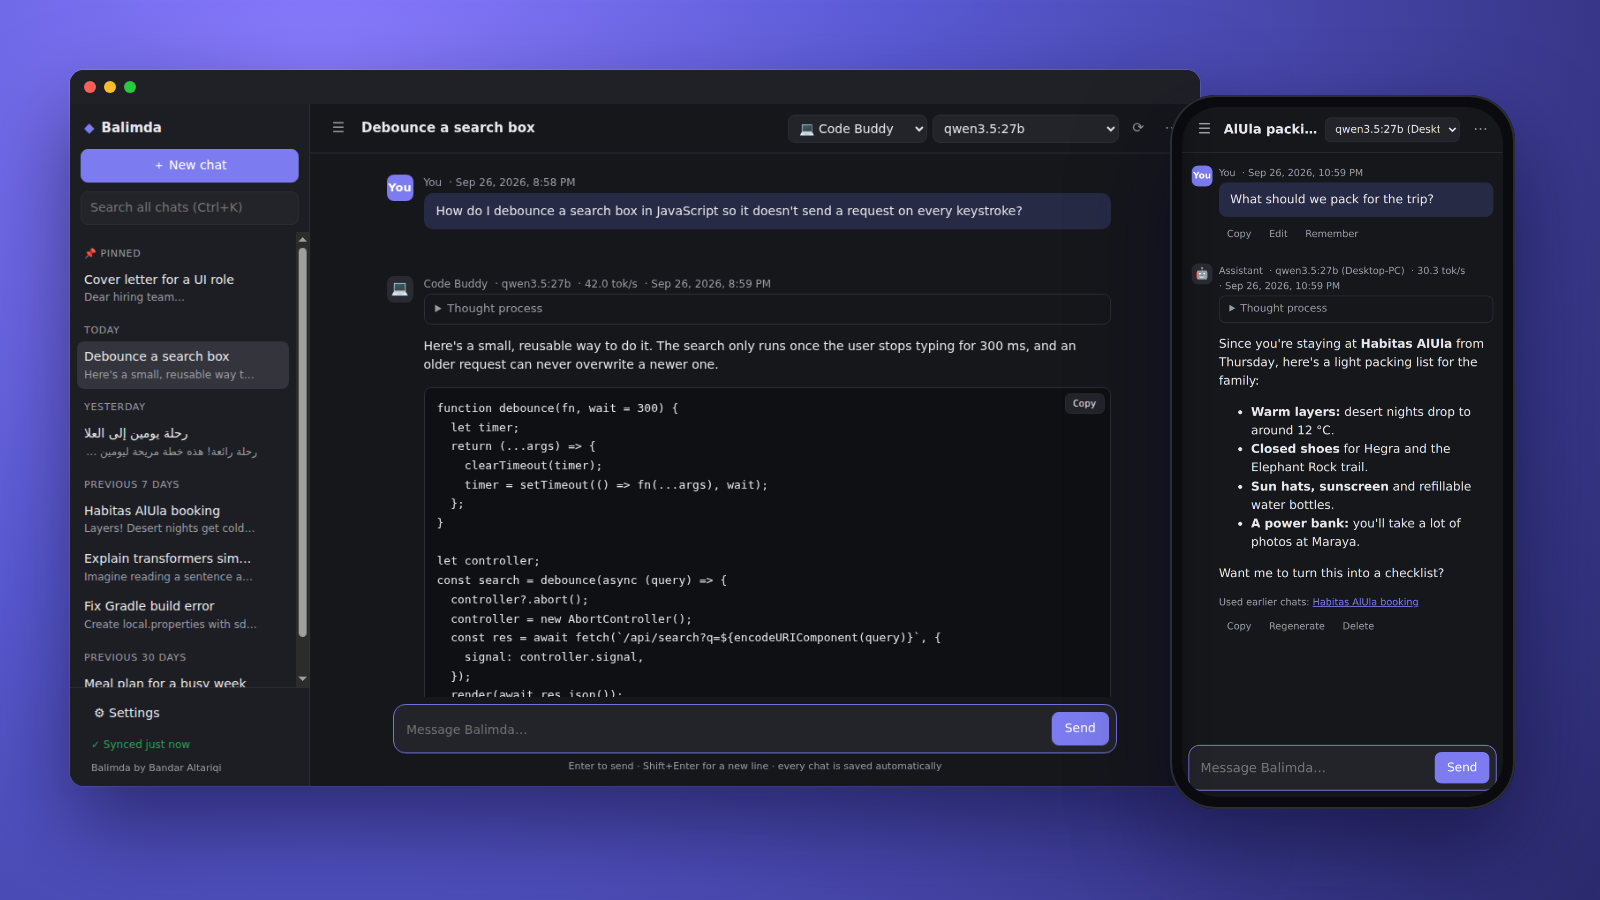
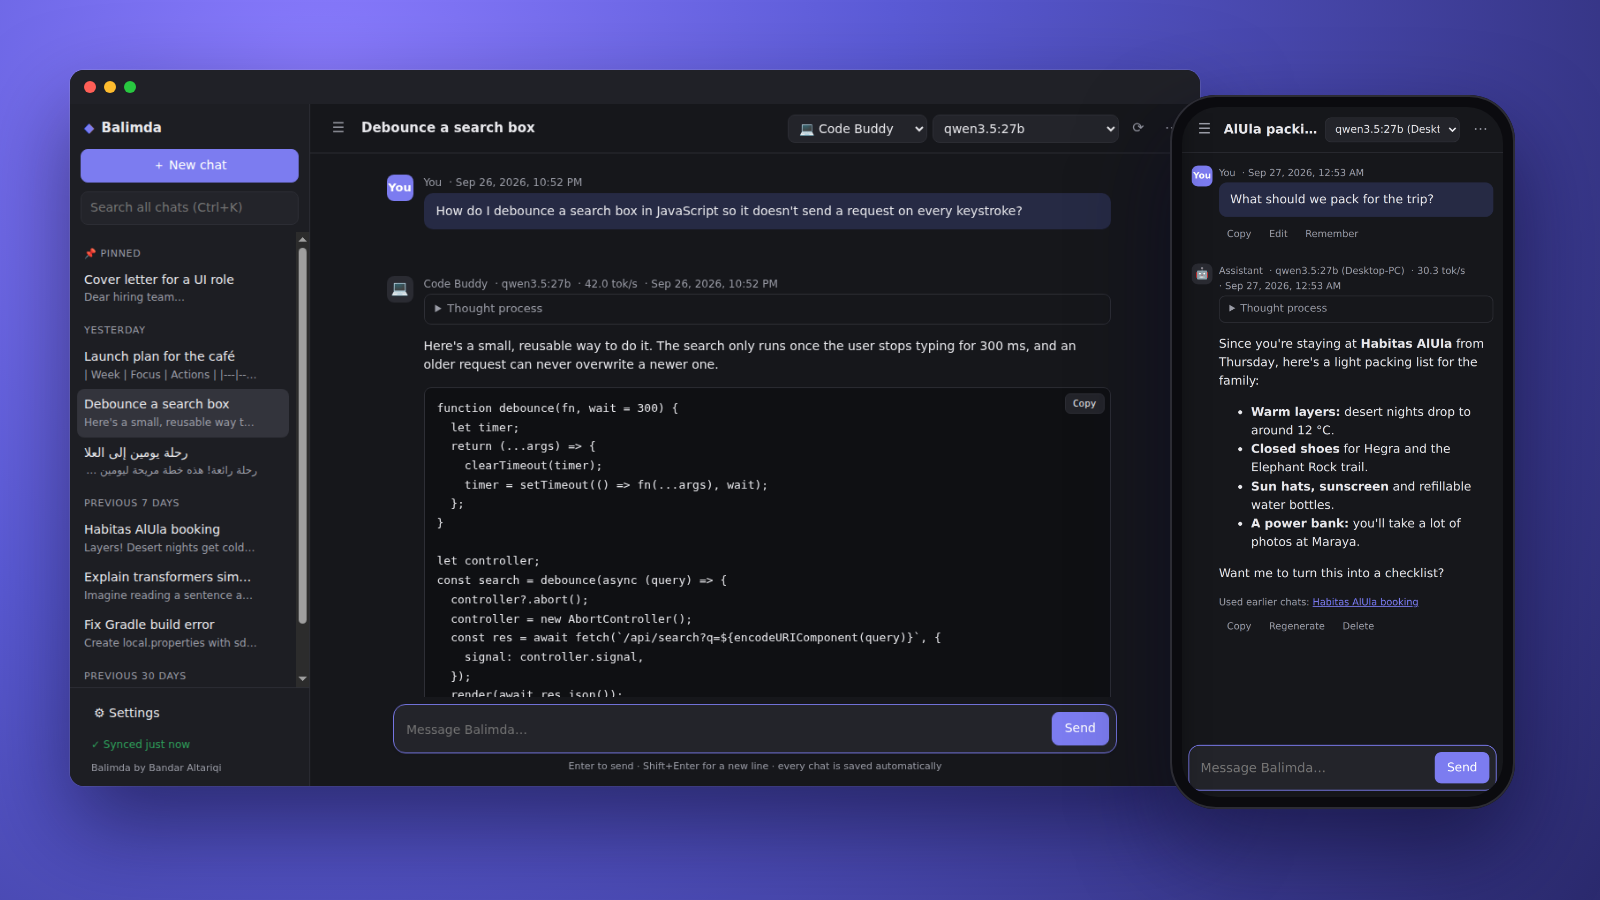
Lead with the same chat on every device, even with different models
- README: new section right under the hero, "One chat. Every device. Any
  model.", with a picture of the same chat on a PC (Qwen 3.5 27B) and a
  phone (Qwen 3 4B, offline), a desk / on the go / back home walkthrough,
  and what makes it work (each reply shows its model, each device keeps
  its own model per chat, merging, memory and assistants follow). The
  tagline, "Why Balimda" and the sync features say it too.
- Website: new lead sentence and a highlighted card saying the same.
- Tables in replies scroll sideways on narrow screens instead of breaking
  words letter by letter.

Changed region(s): [[0.0312, 0.3422, 0.1875, 0.7778], [0.3438, 0.1867, 0.375, 0.2178]]

diff --git a/site/index.html b/site/index.html
@@ -23,12 +23,13 @@
       <img src="icon.png" alt="Balimda logo">
       <h1>Balimda</h1>
       <p class="by">by Bandar Altariqi</p>
-      <p class="lead">A private AI chat app that remembers every chat. Start a conversation on your computer and carry on from your phone.</p>
+      <p class="lead">A private AI chat app that keeps the same conversation on your phone and your computer, even when each one uses a different AI model.</p>
       <span class="note">For Android, Windows, macOS and Linux · in private testing</span>
     </div>
   </section>
 
   <section class="wrap features">
+    <div class="card wide"><h3>One chat, every device, any model</h3><p>Start a chat on your PC with a big model like Qwen 27B, continue the same chat on your phone with a small offline model, and finish it back at your desk. Each reply shows which model wrote it, and each device remembers its own model for every chat.</p></div>
     <div class="card"><h3>Every chat is saved</h3><p>Close the app whenever you like and come back to the same chat, even a half-typed message.</p></div>
     <div class="card"><h3>AI on your phone</h3><p>Run models directly on your phone, offline, using its graphics chip.</p></div>
     <div class="card"><h3>Your choice of models</h3><p>Models on your own computer (Ollama, LM Studio), or Claude and OpenAI with your own key.</p></div>

diff --git a/renderer/styles.css b/renderer/styles.css
@@ -187,8 +187,10 @@ button { font: inherit; color: inherit; }
 }
 .msg .content code { font-family: ui-monospace, "SF Mono", Menlo, Consolas, monospace; font-size: 13px; }
 .msg .content :not(pre) > code { background: var(--bg-code); padding: 1px 5px; border-radius: 4px; }
-.msg .content table { border-collapse: collapse; }
-.msg .content th, .msg .content td { border: 1px solid var(--border); padding: 4px 8px; }
+/* Wide tables scroll sideways instead of breaking words letter by letter. */
+.msg .content table { border-collapse: collapse; display: block; max-width: 100%; overflow-x: auto; }
+.msg .content th, .msg .content td { border: 1px solid var(--border); padding: 4px 8px; overflow-wrap: normal; word-break: normal; }
+.msg .content th { white-space: nowrap; }
 .msg .content blockquote { margin: 0; padding-inline-start: 12px; border-inline-start: 3px solid var(--border); color: var(--text-dim); }
 .msg .content a { color: var(--accent); }
 .copy-code {

diff --git a/site/style.css b/site/style.css
@@ -23,6 +23,7 @@ header nav { margin-left: auto; display: flex; gap: 18px; font-size: 15px; }
 .note { display: inline-block; margin-top: 20px; padding: 8px 14px; border-radius: 999px; background: var(--panel); border: 1px solid var(--border); font-size: 15px; color: var(--dim); }
 .features { display: grid; grid-template-columns: repeat(2, minmax(0, 1fr)); gap: 14px; padding: 24px 0; }
 .card { background: var(--panel); border: 1px solid var(--border); border-radius: 14px; padding: 16px 18px; }
+.card.wide { grid-column: 1 / -1; border-color: var(--accent); }
 .card h3 { margin: 0 0 4px; font-size: 17px; }
 .card p { margin: 0; color: var(--dim); font-size: 15px; }
 .business { padding: 0 0 8px; }

diff --git a/README.md b/README.md
@@ -6,8 +6,8 @@
 
 ### Your private AI, on every device you own.
 
-Chat with AI that runs on your own phone and computer, remembers what matters to you,<br>
-and follows you from your desk to your pocket, encrypted end to end.
+Start a chat on your computer with a big model, continue the <b>same chat</b> on your phone with a small one,<br>
+and finish it back at your desk. Your chats, memory and assistants stay in sync, encrypted end to end.
 
 [![Android](https://img.shields.io/badge/Android-3DDC84?logo=android&logoColor=white)](#download)
 [![Windows](https://img.shields.io/badge/Windows-0078D4?logo=windows&logoColor=white)](#download)
@@ -26,6 +26,26 @@ and follows you from your desk to your pocket, encrypted end to end.
 </div>
 
 <br>
+
+## One chat. Every device. Any model.
+
+Balimda keeps **the same conversation** on your phone and your computers, even when each device uses a different AI model. Nothing to copy, export or switch: open the chat on any device and keep going.
+
+<div align="center">
+<img src="docs/images/sync.png" alt="The same chat on a PC, using Qwen 3.5 27B, and on a phone, using Qwen 3 4B offline" width="100%">
+</div>
+
+| | Where you are | What happens |
+|---|---|---|
+| 💻 | **At your desk** | You start a chat with a large model on your PC, like Qwen 3.5 27B in Ollama. |
+| 📱 | **On the go** | You open Balimda on your phone. The whole chat is already there, and the phone carries on with its own offline model, or with your PC's model over Wi-Fi or Tailscale. |
+| 💻 | **Back home** | The PC shows everything you said on the phone and answers with the big model again. |
+
+- **Every reply shows which model wrote it**, so you always know what answered.
+- **Each device remembers its own model for each chat.** Your phone uses its model and your PC uses its own, automatically, with no switching.
+- **The whole conversation goes along**, so a small phone model picks up right where the big model left off.
+- **Nothing is lost.** Messages added on two devices before they synced are merged, and deleting a chat deletes it everywhere.
+- **Memory and assistants follow you too**, so every device knows you just as well.
 
 ## Why Balimda?
 
@@ -48,7 +68,7 @@ Balimda learns lasting facts about you as you chat, keeps them up to date, and l
 <td width="33%" valign="top">
 
 ### 📱💻 One conversation, every device
-Start a chat at your desk and finish it on your phone. Your phone can even use your computer's big models, so a small device gets a big brain.
+The same chat continues on your phone and your computer, even with a different model on each. Your phone can also use your computer's big models, so a small device gets a big brain.
 
 </td>
 </tr>
@@ -81,6 +101,7 @@ Start a chat at your desk and finish it on your phone. Your phone can even use y
 
 ### Seamless, encrypted sync
 
+- **Continue any chat on any device**, even when each device uses a different model. See [One chat. Every device. Any model.](#one-chat-every-device-any-model)
 - **Sign in with Google** and your chats, assistants and memory follow you between your phone and computers. Balimda uses a hidden app folder in your Drive and can't see your other files. Developers can use a private GitHub repository instead.
 - **End-to-end encrypted.** Everything is encrypted on your device with AES-256-GCM, using a key made from your own passphrase, before it's uploaded. Google or GitHub only ever see scrambled data.
 - **Nothing gets lost.** If the same chat or your memory changed on two devices before they synced, the changes are merged. Delete a chat once and it's gone everywhere.
